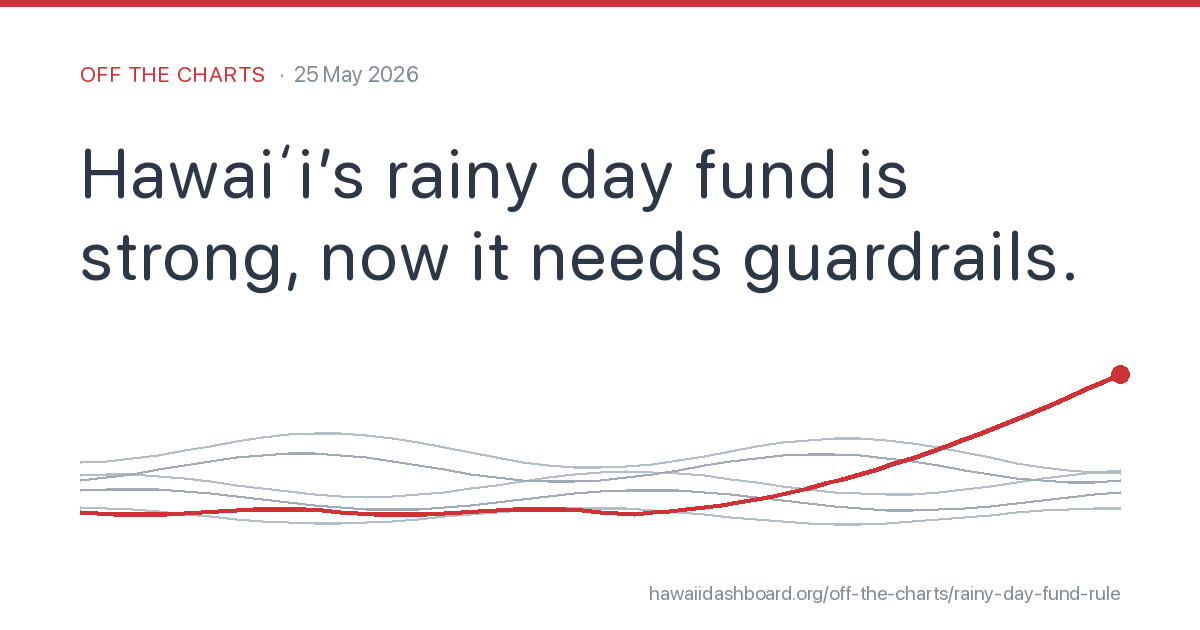
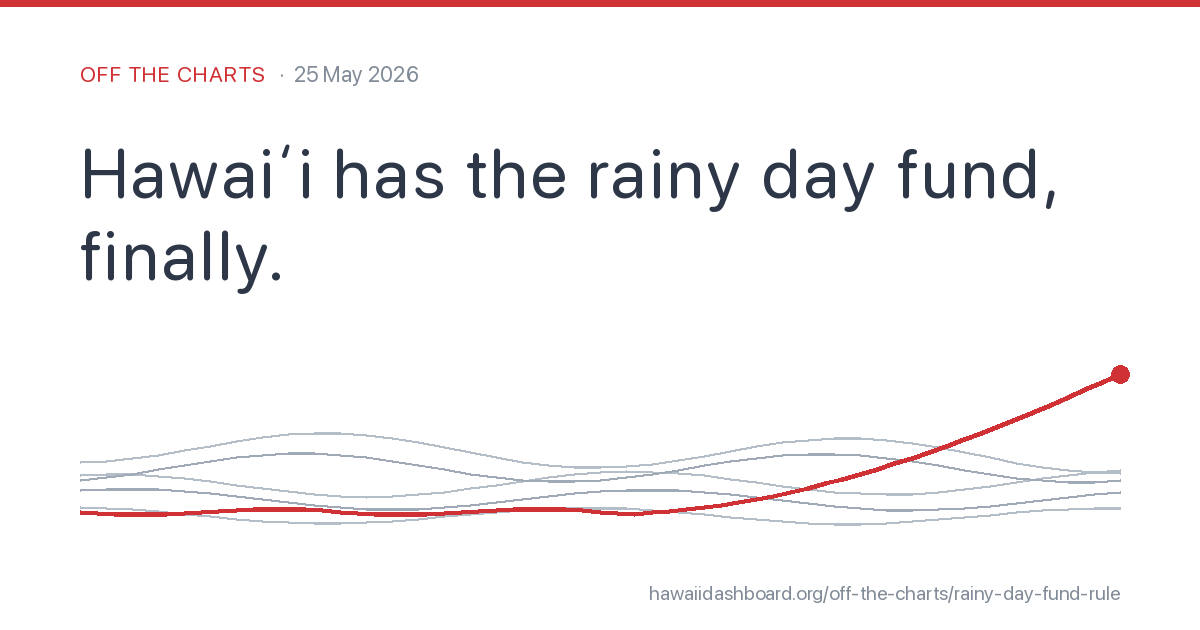
otc: rainy-day-fund-rule — shift from advocacy to diagnostic voice
Title: "...is strong, now it needs guardrails" → "...has the rainy day fund, finally"

Body edits remove the advocacy markers that drifted in during drafting:
- "But here is the problem: HI built the fund by vote, not by rule" → "But HI built the fund by vote, not by rule"
- "The next step is a stronger automatic deposit rule, the kind Pew identifies as best practice and 15 states already use" → "Fifteen states tie deposits to revenue growth automatically, a pattern Pew identifies as best practice. Hawaiʻi has no such rule."
- "The rainy day fund is a great step forward. Now Hawaiʻi needs a rule to keep it from becoming empty again" → "Without a rule, the next downturn can drain it again."
- Lead drops duplicate "finally" (the title carries it now).

Archive entry, JSON-LD headlines, meta/og/twitter titles, OG card title, and
breadcrumb name all updated to match. Validate clean.

The new voice matches the published archive's diagnostic register (Expensive
states are rich. Not Hawaiʻi.; HI quadrupled its renewables; etc.) — observe
the pattern, name the alternative, let the reader draw the conclusion.

Changed region(s): [[0.0617, 0.3619, 0.8942, 0.4825], [0.2467, 0.2413, 0.8942, 0.3317]]

diff --git a/off-the-charts/rainy-day-fund-rule/index.html b/off-the-charts/rainy-day-fund-rule/index.html
@@ -4,12 +4,12 @@
     <meta charset="UTF-8">
     <meta name="viewport" content="width=device-width, initial-scale=1.0">
     <meta name="robots" content="max-image-preview:large, max-snippet:-1">
-    <title>Hawai&#x02BB;i&rsquo;s rainy day fund is strong, now it needs guardrails. | Off the Charts</title>
-    <meta name="description" content="Hawai&#x02BB;i&rsquo;s rainy day fund crossed the GFOA-recommended 10% floor in 2024 and held in 2025, the first time on record. But the two deposit rules on the books both have escape hatches, and the next vote can drain it.">
+    <title>Hawai&#x02BB;i has the rainy day fund, finally. | Off the Charts</title>
+    <meta name="description" content="Hawai&#x02BB;i&rsquo;s rainy day fund crossed the GFOA-recommended 10% floor in 2024 and held in 2025, the first time on record. The fund was built by vote, not by rule, and a vote can drain it.">
     <meta property="og:type" content="article">
     <meta property="og:url" content="https://hawaiidashboard.org/off-the-charts/rainy-day-fund-rule/">
-    <meta property="og:title" content="Hawai&#x02BB;i&rsquo;s rainy day fund is strong, now it needs guardrails.">
-    <meta property="og:description" content="Hawai&#x02BB;i&rsquo;s rainy day fund crossed the GFOA-recommended 10% floor in 2024 and held in 2025, the first time on record. But the two deposit rules on the books both have escape hatches, and the next vote can drain it.">
+    <meta property="og:title" content="Hawai&#x02BB;i has the rainy day fund, finally.">
+    <meta property="og:description" content="Hawai&#x02BB;i&rsquo;s rainy day fund crossed the GFOA-recommended 10% floor in 2024 and held in 2025, the first time on record. The fund was built by vote, not by rule, and a vote can drain it.">
     <meta property="og:image" content="https://hawaiidashboard.org/assets/og/off-the-charts/rainy-day-fund-rule.png">
     <meta property="og:image:width" content="1200">
     <meta property="og:image:height" content="630">
@@ -17,8 +17,8 @@
     <meta property="article:published_time" content="2026-05-25">
     <meta property="article:section" content="Off the Charts">
     <meta name="twitter:card" content="summary_large_image">
-    <meta name="twitter:title" content="Hawai&#x02BB;i&rsquo;s rainy day fund is strong, now it needs guardrails.">
-    <meta name="twitter:description" content="Hawai&#x02BB;i&rsquo;s rainy day fund crossed the GFOA-recommended 10% floor in 2024 and held in 2025, the first time on record. But the two deposit rules on the books both have escape hatches, and the next vote can drain it.">
+    <meta name="twitter:title" content="Hawai&#x02BB;i has the rainy day fund, finally.">
+    <meta name="twitter:description" content="Hawai&#x02BB;i&rsquo;s rainy day fund crossed the GFOA-recommended 10% floor in 2024 and held in 2025, the first time on record. The fund was built by vote, not by rule, and a vote can drain it.">
     <meta name="twitter:image" content="https://hawaiidashboard.org/assets/og/off-the-charts/rainy-day-fund-rule.png">
     <link rel="canonical" href="https://hawaiidashboard.org/off-the-charts/rainy-day-fund-rule/">
 
@@ -27,8 +27,8 @@
     {
       "@context": "https://schema.org",
       "@type": "Article",
-      "headline": "Hawaiʻi’s rainy day fund is strong, now it needs guardrails.",
-      "description": "Hawaiʻi’s rainy day fund crossed the GFOA-recommended 10% floor in 2024 and held in 2025, the first time on record. But the two deposit rules on the books both have escape hatches, and the next vote can drain it.",
+      "headline": "Hawaiʻi has the rainy day fund, finally.",
+      "description": "Hawaiʻi’s rainy day fund crossed the GFOA-recommended 10% floor in 2024 and held in 2025, the first time on record. The fund was built by vote, not by rule, and a vote can drain it.",
       "datePublished": "2026-05-25",
       "dateModified": "2026-05-25",
       "author": { "@type": "Organization", "name": "Hawaiʻi Dashboard" },
@@ -57,7 +57,7 @@
       "itemListElement": [
         { "@type": "ListItem", "position": 1, "name": "Dashboard", "item": "https://hawaiidashboard.org/" },
         { "@type": "ListItem", "position": 2, "name": "Off the Charts", "item": "https://hawaiidashboard.org/off-the-charts/" },
-        { "@type": "ListItem", "position": 3, "name": "Hawaiʻi’s rainy day fund is strong, now it needs guardrails.", "item": "https://hawaiidashboard.org/off-the-charts/rainy-day-fund-rule/" }
+        { "@type": "ListItem", "position": 3, "name": "Hawaiʻi has the rainy day fund, finally.", "item": "https://hawaiidashboard.org/off-the-charts/rainy-day-fund-rule/" }
       ]
     }
     </script>
@@ -105,7 +105,7 @@
 
     <article class="otc-post">
         <p class="otc-post-date">25 May 2026</p>
-        <h1>Hawai&#x02BB;i&rsquo;s rainy day fund is strong, now it needs guardrails.</h1>
+        <h1>Hawai&#x02BB;i has the rainy day fund, finally.</h1>
 
         <div class="otc-actions">
             <button type="button" class="share-btn"
@@ -113,13 +113,13 @@
                     aria-label="Copy link to this post"><svg width="14" height="14" viewBox="0 0 24 24" fill="none" stroke="currentColor" stroke-width="2" stroke-linecap="round" stroke-linejoin="round" aria-hidden="true"><circle cx="18" cy="5" r="3"/><circle cx="6" cy="12" r="3"/><circle cx="18" cy="19" r="3"/><line x1="8.59" y1="13.51" x2="15.42" y2="17.49"/><line x1="15.41" y1="6.51" x2="8.59" y2="10.49"/></svg><span>Share</span></button>
         </div>
 
-        <p>Hawai&#x02BB;i&rsquo;s rainy day fund finally <a href="/t/rainy_day_fund_pct/">crossed the GFOA-recommended floor of 10% in 2024, reaching 14.1%</a>. It held at 14.5% in 2025.</p>
+        <p>Hawai&#x02BB;i&rsquo;s rainy day fund <a href="/t/rainy_day_fund_pct/">crossed the GFOA-recommended floor of 10% in 2024, reaching 14.1%</a>. It held at 14.5% in 2025.</p>
 
         <p>That put Hawai&#x02BB;i above the national median for the first time in NASBO&rsquo;s 26-year record.</p>
 
         <p>That is a big shift. For 18 of those 26 years, Hawai&#x02BB;i&rsquo;s rainy day fund sat below 2%. In 2020, it was drained to 0.7% to help deal with COVID.</p>
 
-        <p>But here is the problem: Hawai&#x02BB;i built the fund by vote, not by rule.</p>
+        <p>But Hawai&#x02BB;i built the fund by vote, not by rule.</p>
 
         <p>The state has two deposit rules on paper, but both have escape hatches. The constitution requires the legislature to act on a surplus, but that action can be a tax refund or debt prepayment, not necessarily a rainy day fund deposit. The statute is even narrower: it deposits 5% of the balance only when revenue growth exceeds 5% for two straight years. It has never actually triggered.</p>
 
@@ -131,9 +131,9 @@
 
         <p>Hawai&#x02BB;i has built its financial reserve, but a vote can drain it.</p>
 
-        <p>The next step is a stronger automatic deposit rule, the kind <a href="https://www.pewtrusts.org/en/research-and-analysis/speeches-and-testimony/2017/02/nc-bill-to-strengthen-savings-reserves-contains-rainy-day-fund-best-practices" target="_blank" rel="noopener">Pew identifies as best practice and 15 states already use</a>.</p>
+        <p>Fifteen states tie deposits to revenue growth automatically, a pattern <a href="https://www.pewtrusts.org/en/research-and-analysis/speeches-and-testimony/2017/02/nc-bill-to-strengthen-savings-reserves-contains-rainy-day-fund-best-practices" target="_blank" rel="noopener">Pew identifies as best practice</a>. Hawai&#x02BB;i has no such rule.</p>
 
-        <p>The rainy day fund is a great step forward. Now Hawai&#x02BB;i needs a rule to keep it from becoming empty again.</p>
+        <p>Without a rule, the next downturn can drain it again.</p>
     </article>
 
     <p class="otc-back"><a href="/off-the-charts/">&larr; All Off the Charts posts</a></p>

diff --git a/off-the-charts/index.html b/off-the-charts/index.html
@@ -51,7 +51,7 @@
       "blogPost": [
         {
           "@type": "BlogPosting",
-          "headline": "Hawaiʻi’s rainy day fund is strong, now it needs guardrails.",
+          "headline": "Hawaiʻi has the rainy day fund, finally.",
           "url": "https://hawaiidashboard.org/off-the-charts/rainy-day-fund-rule/",
           "datePublished": "2026-05-25",
           "image": "https://hawaiidashboard.org/assets/og/off-the-charts/rainy-day-fund-rule.png"
@@ -154,8 +154,8 @@
 
         <article class="otc-archive-item" id="rainy-day-fund-rule">
             <p class="otc-archive-date">25 May 2026</p>
-            <h2><a href="/off-the-charts/rainy-day-fund-rule/">Hawai&#x02BB;i&rsquo;s rainy day fund is strong, now it needs guardrails.</a></h2>
-            <p class="otc-dek">Hawai&#x02BB;i&rsquo;s rainy day fund crossed the GFOA-recommended 10% floor in 2024 and held in 2025, the first time on record. But the two deposit rules on the books both have escape hatches, and the next vote can drain it.</p>
+            <h2><a href="/off-the-charts/rainy-day-fund-rule/">Hawai&#x02BB;i has the rainy day fund, finally.</a></h2>
+            <p class="otc-dek">Hawai&#x02BB;i&rsquo;s rainy day fund crossed the GFOA-recommended 10% floor in 2024 and held in 2025, the first time on record. The fund was built by vote, not by rule, and a vote can drain it.</p>
             <p class="otc-read-more"><a href="/off-the-charts/rainy-day-fund-rule/">Read post &rarr;</a></p>
         </article>
 

diff --git a/scripts/generate-og-off-the-charts-posts.py b/scripts/generate-og-off-the-charts-posts.py
@@ -31,7 +31,7 @@ SLATE    = (56, 75, 91)
 POSTS = [
     {
         "slug": "rainy-day-fund-rule",
-        "title": "Hawaiʻi’s rainy day fund is strong, now it needs guardrails.",
+        "title": "Hawaiʻi has the rainy day fund, finally.",
         "date":  "25 May 2026",
         # Outlier line: the fund's recent climb from near-zero to above the GFOA floor.
         "outlier": "high",
